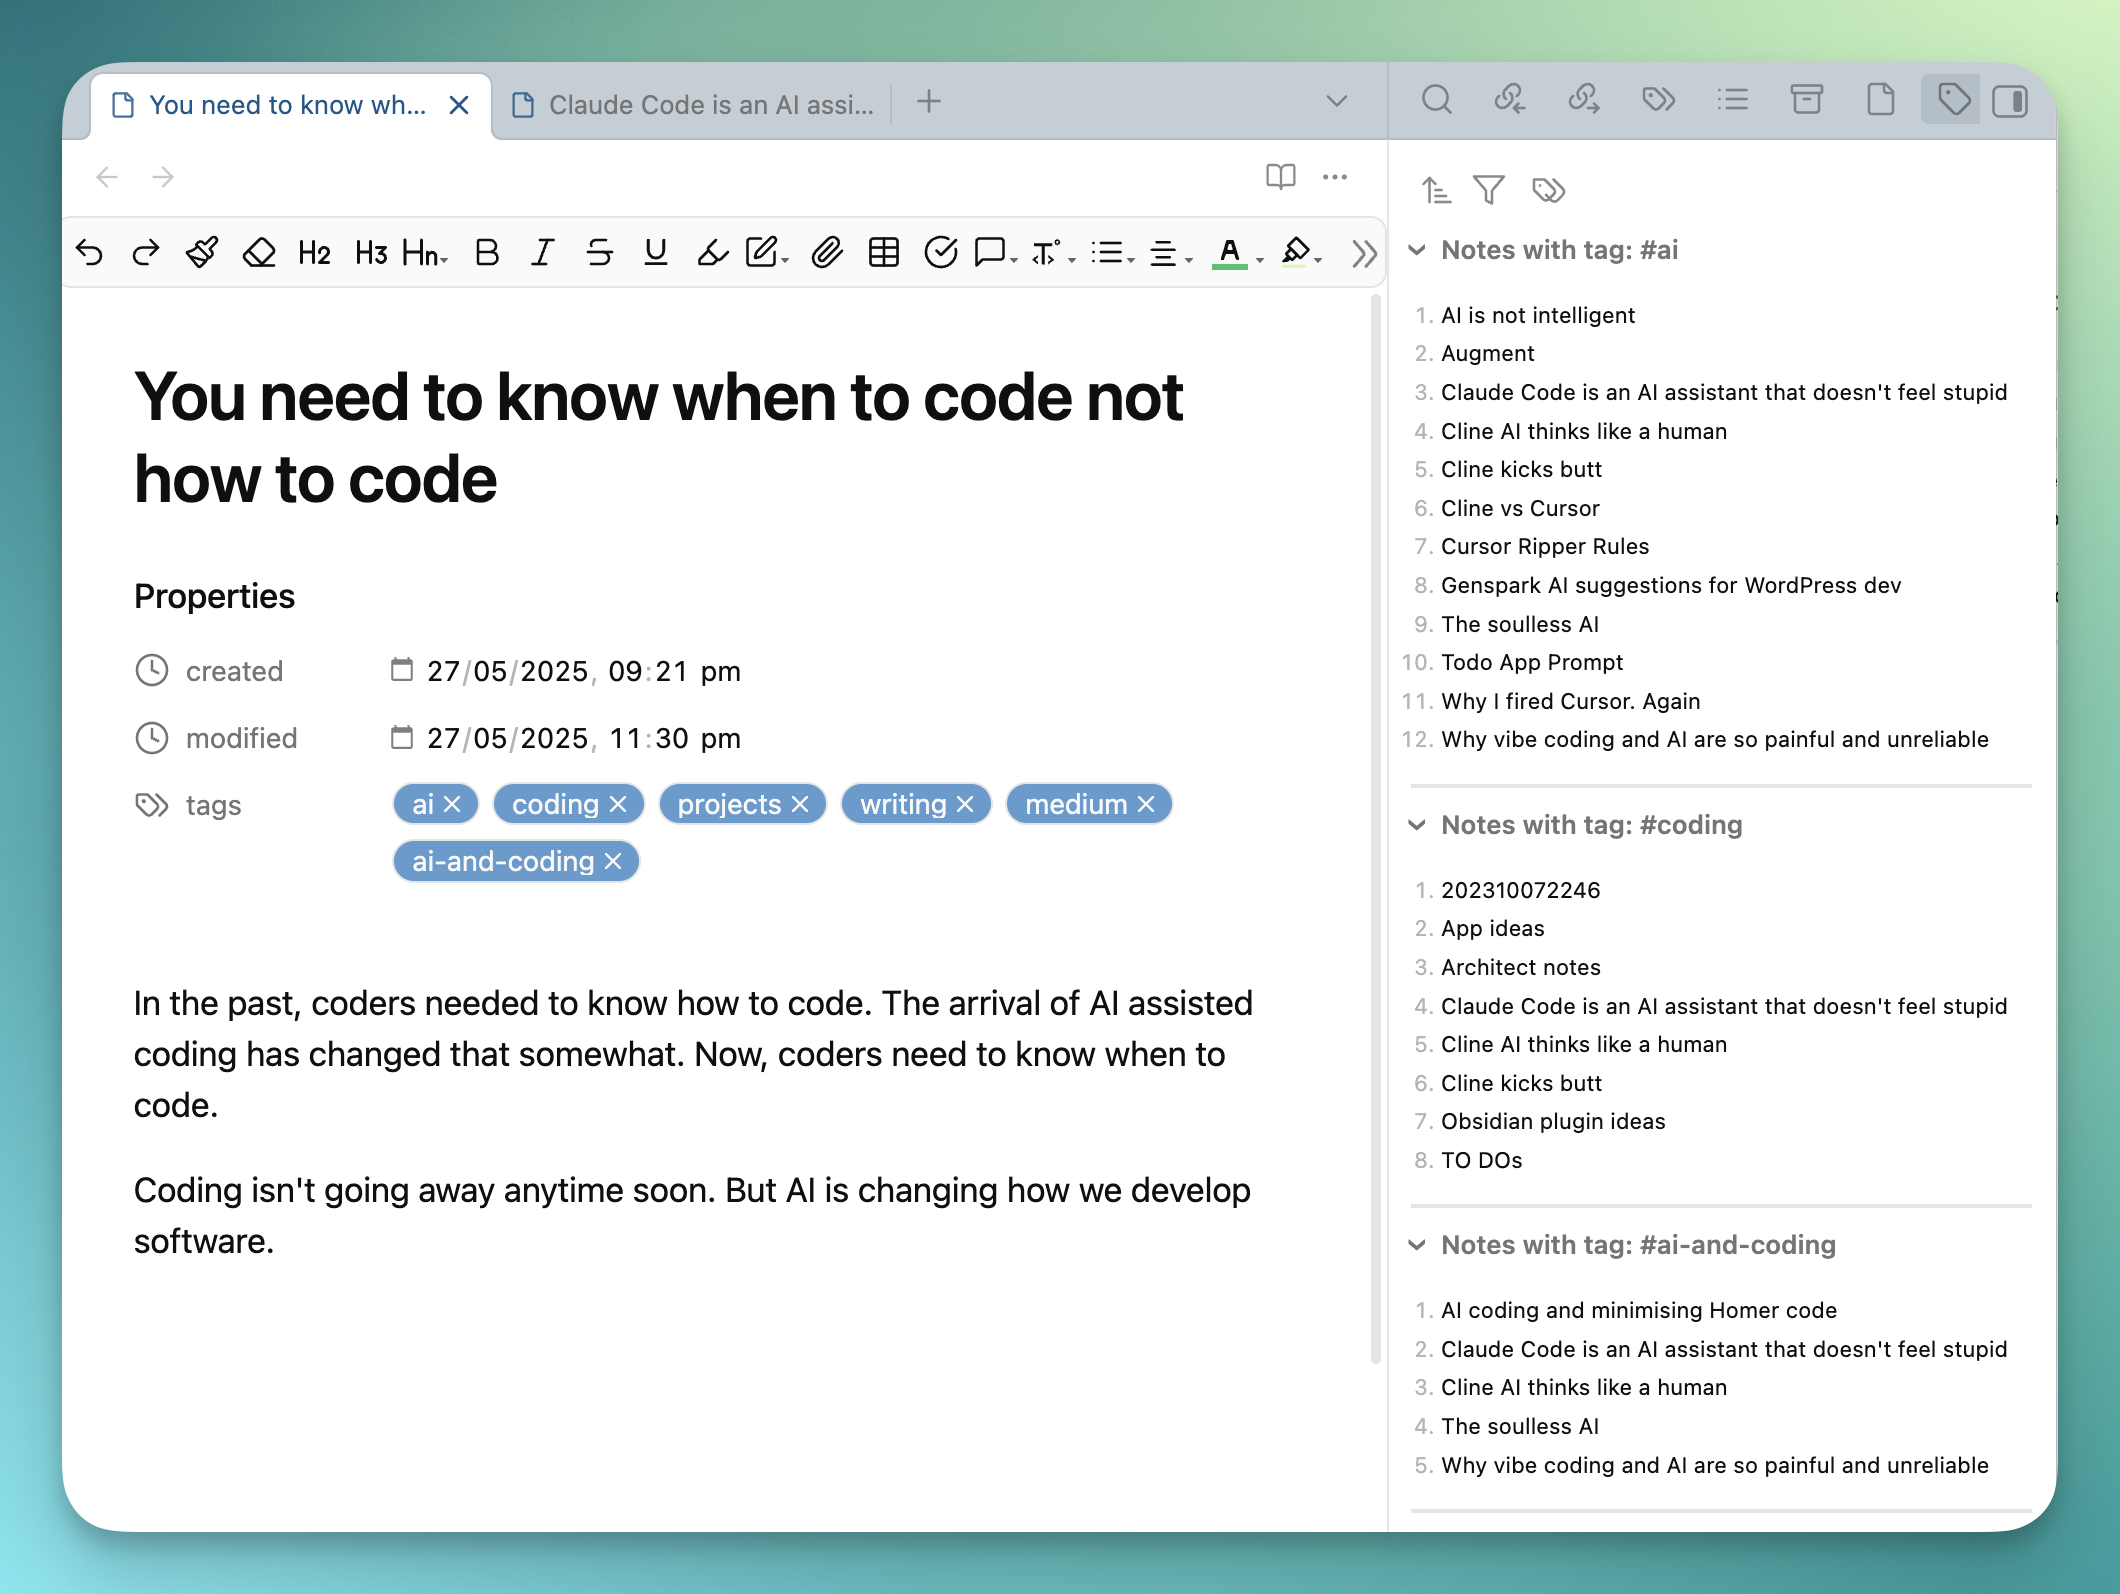
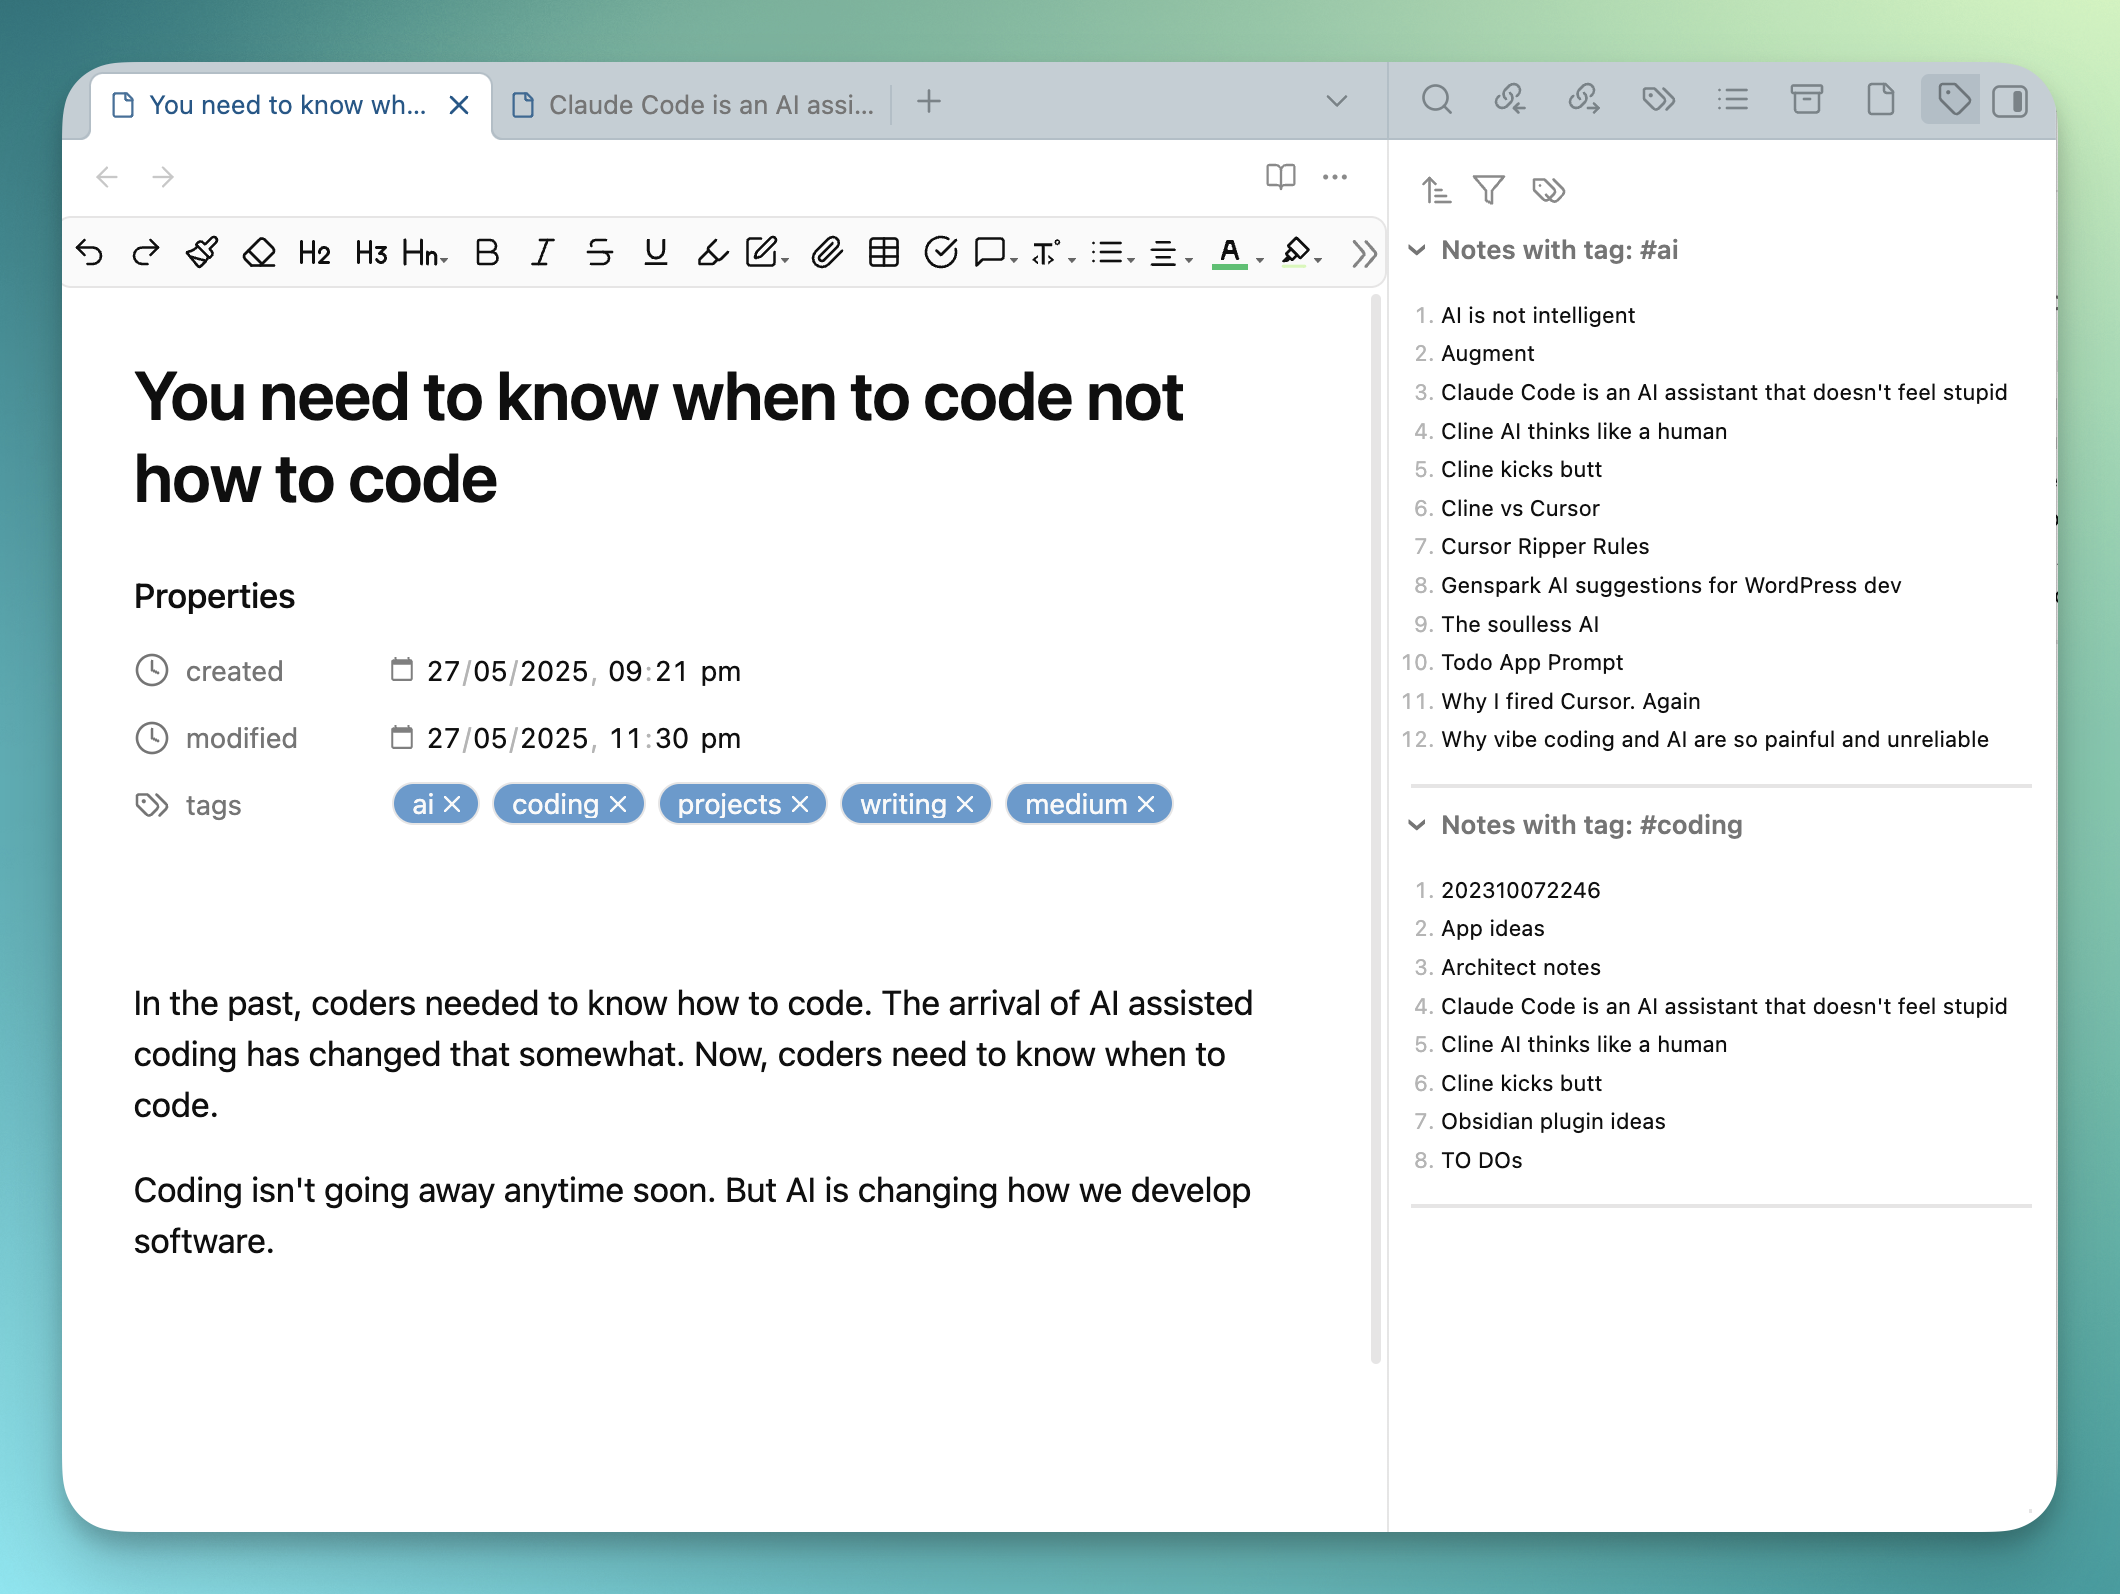
update readme image improve usage instructions in settings bump to v0.3.1

Changed region(s): [[0.6849, 0.7685, 0.934, 0.9529], [0.1868, 0.5226, 0.3113, 0.5533]]

diff --git a/src/settings.ts b/src/settings.ts
@@ -108,7 +108,7 @@ export class RelatedNotesSettingTab extends PluginSettingTab {
     instructionsDiv.createEl('p', { text: 'To activate the Related Notes by Tag sidebar:' });
     instructionsDiv.createEl('ul', {}, (list) => {
       list.createEl('li', { text: 'Click the ribbon icon (tag icon) in the top right if visible' });
-      list.createEl('li', { text: 'Or use the command palette: "Related Notes by Tag: Open sidebar"' });
+      list.createEl('li', { text: 'Or use the command palette (cmd/ctrl-P) and search for: "Related Notes by Tag: Open sidebar"' });
     });
     instructionsDiv.createEl('p', { text: 'Usage:' });
     instructionsDiv.createEl('ul', {}, (list) => {

diff --git a/CHANGELOG.md b/CHANGELOG.md
@@ -6,6 +6,12 @@ The format is based on [Keep a Changelog](https://keepachangelog.com/en/1.0.0/),
 and this project adheres to [Semantic Versioning](https://semver.org/spec/v2.0.0.html).
 
 
+## [0.3.1]
+
+### Changed
+- Updated readme image to remove my doubled tag that was misleading
+- Updated usage instructions to be clearer how to launch command palette
+
 ## [0.3.0]
 
 ### Added
